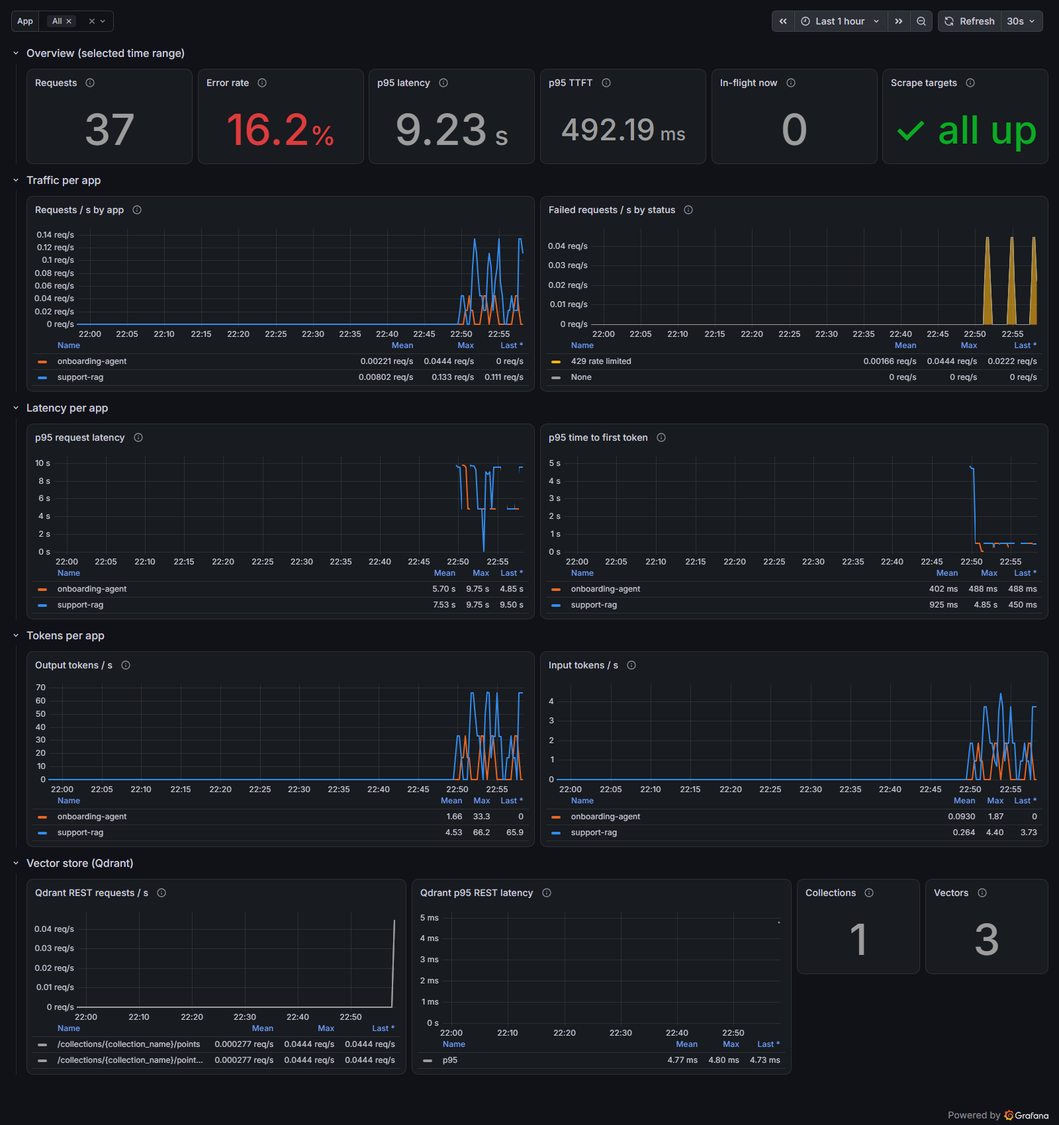
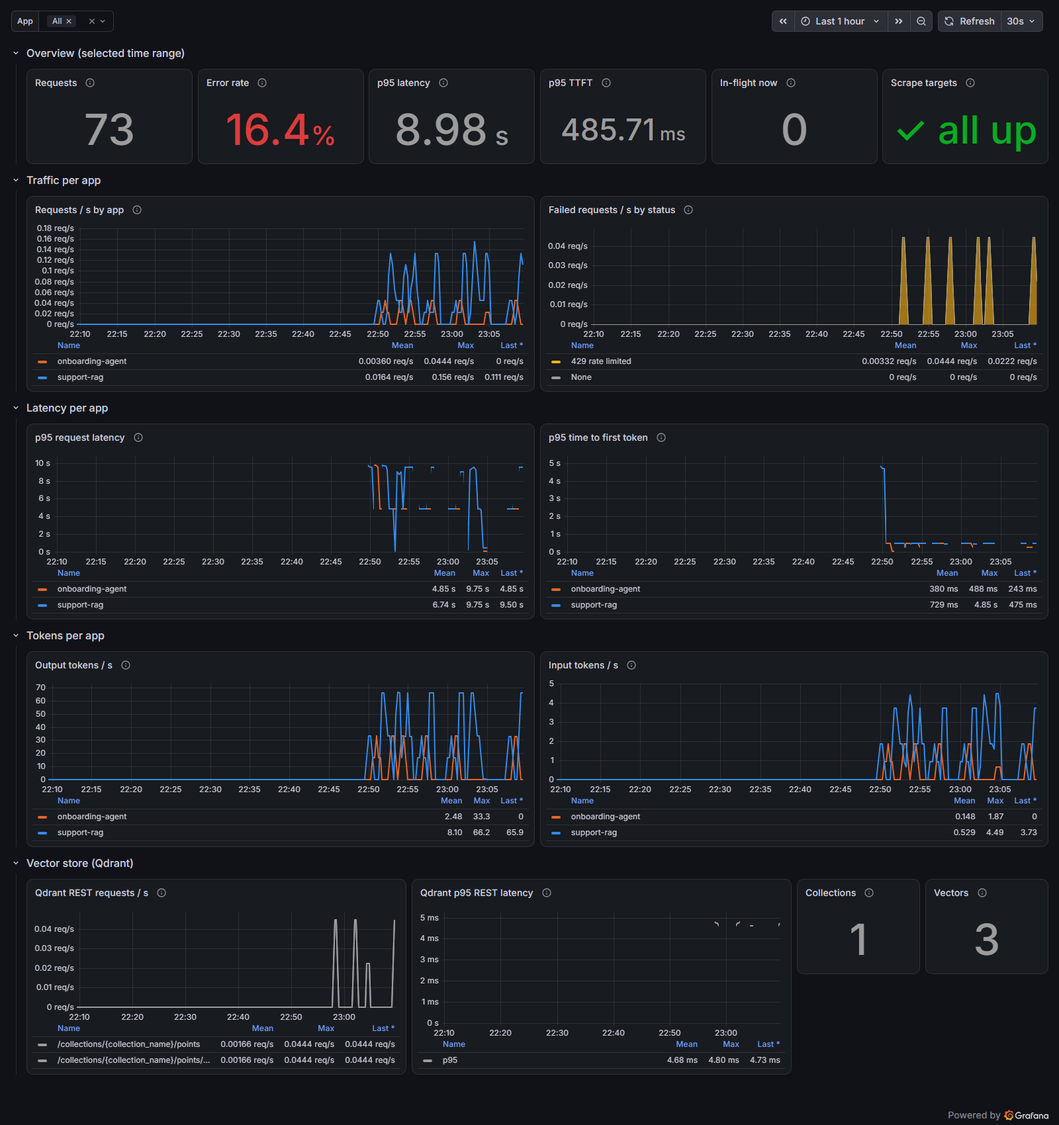
fix(1.9): address Codex round 1 - stricter no-data/geometry/cleanup checks, safer redaction

diff --git a/scripts/overnight/run_codex.py b/scripts/overnight/run_codex.py
@@ -8,21 +8,28 @@ from the repo root and writes:
   reports/raw/<item>/codex-last.md     Codex's final message
   reports/raw/<item>/codex.log         full stdout + stderr (progress, commands run)
 
-Stops Codex after 15 minutes. Before anything is written, every secret value
-from .env is redacted, so a reply that quotes a key never lands on disk.
+Stops Codex after 15 minutes. Nothing Codex produces is written into the repo
+unredacted: its final message goes to a temp file outside the repo first, and
+every value of a .env variable (quotes and inline comments stripped) plus any
+`sk-...` token is redacted before the repo copy is written. The temp file is
+removed in all cases, including timeout.
 """
 from __future__ import annotations
 
 import os
+import re
 import shutil
 import subprocess
 import sys
+import tempfile
 import time
 from pathlib import Path
 
 REPO = Path(__file__).resolve().parents[2]
 TIMEOUT_S = 15 * 60
-SECRET_VARS = ("PASSWORD", "KEY", "SALT", "SECRET", "TOKEN")
+SK_TOKEN = re.compile(r"sk-[A-Za-z0-9_\-]{8,}")
+# Values too generic to redact without mangling prose (ports, model names, ...).
+NOT_SECRET_VARS = re.compile(r"(_PORT|_USER|_DB|_MODEL|_RETENTION|NUM_PARALLEL|MAX_LOADED_MODELS|KEEP_ALIVE)$")
 
 
 def codex_exe() -> str:
@@ -35,14 +42,27 @@ def codex_exe() -> str:
     raise SystemExit("codex CLI not found")
 
 
+def parse_env_value(raw: str) -> str:
+    v = raw.strip()
+    if v[:1] in "\"'" and v[-1:] == v[:1] and len(v) >= 2:
+        return v[1:-1]
+    return re.split(r"\s+#", v, maxsplit=1)[0].strip()
+
+
 def secret_values() -> list[str]:
-    vals = []
+    """Every non-trivial .env value except clearly public settings; longest first
+    so a value containing another is replaced whole."""
+    vals = set()
     for line in (REPO / ".env").read_text(encoding="utf-8").splitlines():
-        if "=" in line and not line.lstrip().startswith("#"):
-            k, v = line.split("=", 1)
-            if any(s in k.upper() for s in SECRET_VARS) and len(v.strip()) >= 6:
-                vals.append(v.strip())
-    return vals
+        line = line.strip()
+        if not line or line.startswith("#") or "=" not in line:
+            continue
+        k, v = line.split("=", 1)
+        k = k.strip().removeprefix("export ").strip()
+        v = parse_env_value(v)
+        if v and len(v) >= 4 and not NOT_SECRET_VARS.search(k):
+            vals.add(v)
+    return sorted(vals, key=len, reverse=True)
 
 
 def redact(text: str, secrets: list[str]) -> tuple[str, int]:
@@ -51,7 +71,8 @@ def redact(text: str, secrets: list[str]) -> tuple[str, int]:
         if s in text:
             hits += text.count(s)
             text = text.replace(s, "[REDACTED]")
-    return text, hits
+    text, n = SK_TOKEN.subn(lambda m: f"sk-…{m.group()[-4:]}", text)
+    return text, hits + n
 
 
 def main() -> int:
@@ -64,21 +85,28 @@ def main() -> int:
     if last.exists():
         last.unlink()
 
+    fd, tmp_name = tempfile.mkstemp(prefix="codex-last-", suffix=".md")
+    os.close(fd)
+    tmp_last = Path(tmp_name)
     cmd = [codex_exe(), "exec", "--sandbox", "read-only",
            "-c", 'model_reasoning_effort="medium"',
-           "--output-last-message", str(last), prompt]
+           "--output-last-message", str(tmp_last), prompt]
     started = time.monotonic()
     status = "ok"
     try:
-        proc = subprocess.run(cmd, cwd=REPO, stdin=subprocess.DEVNULL, capture_output=True,
-                              text=True, encoding="utf-8", errors="replace", timeout=TIMEOUT_S,
-                              env={**os.environ, "NO_COLOR": "1"})
-        out, rc = proc.stdout + "\n--- stderr ---\n" + proc.stderr, proc.returncode
-    except subprocess.TimeoutExpired as e:
-        status = "timeout"
-        out = f"{e.stdout or ''}\n--- stderr ---\n{e.stderr or ''}"
-        out = out if isinstance(out, str) else out.decode("utf-8", "replace")
-        rc = -1
+        try:
+            proc = subprocess.run(cmd, cwd=REPO, stdin=subprocess.DEVNULL, capture_output=True,
+                                  text=True, encoding="utf-8", errors="replace", timeout=TIMEOUT_S,
+                                  env={**os.environ, "NO_COLOR": "1"})
+            out, rc = proc.stdout + "\n--- stderr ---\n" + proc.stderr, proc.returncode
+        except subprocess.TimeoutExpired as e:
+            status = "timeout"
+            parts = [p if isinstance(p, str) else (p or b"").decode("utf-8", "replace")
+                     for p in (e.stdout, e.stderr)]
+            out, rc = f"{parts[0]}\n--- stderr ---\n{parts[1]}", -1
+        reply = tmp_last.read_text(encoding="utf-8") if tmp_last.stat().st_size else ""
+    finally:
+        tmp_last.unlink(missing_ok=True)
     elapsed = time.monotonic() - started
 
     secrets = secret_values()
@@ -86,12 +114,12 @@ def main() -> int:
     (raw / "codex.log").write_text(
         f"# codex exec ({status}, exit {rc}, {elapsed:.0f}s)\n\n{log}", encoding="utf-8", newline="\n")
     hits_last = 0
-    if last.exists():
-        text, hits_last = redact(last.read_text(encoding="utf-8"), secrets)
-        last.write_text(text, encoding="utf-8", newline="\n")
-    print(f"codex {status}, exit {rc}, {elapsed:.0f}s; reply: {last.exists()}; "
-          f"redacted {hits_log + hits_last} secret occurrence(s)")
-    return 0 if status == "ok" and rc == 0 and last.exists() else 1
+    if reply:
+        reply, hits_last = redact(reply, secrets)
+        last.write_text(reply, encoding="utf-8", newline="\n")
+    print(f"codex {status}, exit {rc}, {elapsed:.0f}s; reply: {bool(reply)}; "
+          f"redacted {hits_log + hits_last} occurrence(s)")
+    return 0 if status == "ok" and rc == 0 and reply else 1
 
 
 if __name__ == "__main__":

diff --git a/tests/e2e/test_grafana.py b/tests/e2e/test_grafana.py
@@ -38,7 +38,7 @@ STAT_TITLES = [p["title"] for p in PANELS if p["type"] == "stat"]
 TS_TITLES = [p["title"] for p in PANELS if p["type"] == "timeseries"]
 OUT_DIR = REPO / "reports/raw/1.9"
 VIEWPORT = {"width": 1600, "height": 1700}       # whole dashboard fits without scrolling
-EMPTY_TEXT = re.compile(r"^\s*No data( in range)?\s*$")
+EMPTY_TEXT = re.compile(r"\bno\s+data\b", re.I)   # "No data", "No data in range", ...
 EMPTY_STAT = {"–", "-", "N/A", "NaN", ""}
 
 pytestmark = [pytest.mark.llm, pytest.mark.browser]
@@ -85,7 +85,9 @@ def app_traffic(env, gateway, grafana, probe_image):
                        "body": {"vectors": {"size": 4, "distance": "Cosine"}}}])[0]["status"] == 200
         twice_across_scrape(grafana, qdrant_points, "sum(rest_responses_total)")
     finally:
-        probe([{"method": "DELETE", "url": col, "headers": h}])
+        deleted = probe([{"method": "DELETE", "url": col, "headers": h}])[0]
+        assert deleted["status"] == 200 and deleted["body"].get("result") is True, \
+            f"temporary Qdrant collection not cleaned up: HTTP {deleted['status']}"
 
 
 @pytest.fixture(scope="module")
@@ -168,7 +170,7 @@ def test_panels_do_not_overlap_and_fit_viewport(dashboard_page):
     for title, b in boxes:
         assert b and b["width"] > 0 and b["height"] > 0, title
         assert b["x"] >= 0 and b["x"] + b["width"] <= VIEWPORT["width"] + 1, f"{title} overflows horizontally"
-        assert b["y"] + b["height"] <= VIEWPORT["height"] + 1, f"{title} below the screenshot"
+        assert b["y"] >= 0 and b["y"] + b["height"] <= VIEWPORT["height"] + 1, f"{title} outside the screenshot"
     for i, (ta, a) in enumerate(boxes):
         for tb, b in boxes[i + 1:]:
             ix = min(a["x"] + a["width"], b["x"] + b["width"]) - max(a["x"], b["x"])

diff --git a/reports/verification/1.9.md b/reports/verification/1.9.md
@@ -110,16 +110,18 @@
 
 ### 親自看截圖的觀察（`platform-overview-kiosk.png`）
 
+> 每次跑完整套件，e2e 測試都會重新產生截圖。以下數值對應 commit 進 repo 的版本，也就是修正第 1 輪後的完整套件執行（`reports/raw/1.9/pytest.txt`）。
+
 - **排版**：
   - 5 個 row（Overview、Traffic、Latency、Tokens、Vector store）依序排列，16 個面板對齊格線，無重疊、無截斷。
   - 唯一例外是 Qdrant REST requests 圖例中較長的端點名稱，會以 `…` 省略。
 - **配色**：
   - 各應用在所有面板中顏色固定：support-rag 藍 `#338ced`、onboarding-agent 橘 `#e76624`。
   - Failed 面板中的 429 使用 warning 黃，`None` 使用中性灰，沒有和應用顏色混用。
-  - Error rate 16.2% 以 critical 紅顯示，這來自測試刻意製造的 429。
+  - Error rate 16.4% 以 critical 紅顯示，這來自測試刻意製造的 429。
   - Scrape targets 顯示綠色勾號加「all up」，有圖示也有文字，不是只靠顏色表達狀態。
 - **數值合理性**：
-  - Requests 37、p95 TTFT 492 ms、In-flight 0（閒置）。
+  - Requests 73、Error rate 16.4%、p95 latency 8.98 s、p95 TTFT 485.71 ms、In-flight 0（閒置）。
   - Collections 1、Vectors 3：截圖時臨時 collection 已刪除，但 Prometheus 最後一次抓取時它還在，最多落後 15 秒。
 - **Failed 面板的 `None` 序列來源已查明**：
   - 來自 1.9 調查並發計數 bug 時，我刻意送出的格式錯誤請求（`messages` 是字串）。
@@ -128,8 +130,64 @@
   - 這些都不是應用流量。
   - **這是一項觀察：**格式錯誤的 400 在面板上會顯示為 `None`，不是 `400`。
 - **其他觀察**：
+  - 流量是一陣一陣的，所以 p95 latency 與 TTFT 曲線在兩次請求之間有斷點：該時段沒有請求，`histogram_quantile` 算出 NaN。這是預期行為。
+  - Qdrant p95 REST latency 只有零星幾個點，因為測試只做了少量 Qdrant 呼叫。點很小，不容易看到，但面板確實有資料，圖例也有數值。若要讓圖更清楚，可以考慮開啟 `showPoints`；這件事留給使用者決定，本次沒有改動儀表板。
   - In-flight now 只是最後一次抓取時的瞬間值。第一次截圖時剛好有 2 個串流仍在進行，所以顯示 2；第二次截圖時是 0。這是預期行為，不是 bug。
 
 ### 結果
 
 `pytest tests/e2e`：22 passed in 142.94s。完整套件的結果見 `reports/raw/1.9/pytest.txt`。
+
+
+---
+
+## 附錄 B：Codex 審閱 第 1 輪
+
+> 夜間模式：Codex 唯讀審閱證據，未親自執行。
+
+- **commit 範圍**：`e25cac1..30cee1f`
+- **指令**：`codex exec --sandbox read-only -c model_reasoning_effort="medium"`
+- **原始檔案**：
+  - prompt：`reports/raw/1.9/codex-prompt.md`
+  - 完整 log：`reports/raw/1.9/codex.log`
+- 第 1 輪結束後，以第 2 輪的 Codex 審閱覆寫了 raw 目錄中的檔案。第 1 輪的完整回覆保留在下方。
+
+### Codex 回覆（全文）
+
+## 總結：有條件通過
+
+程式與 `pytest.txt` 支持大部分驗收項目，截圖也看得到各面板有資料、版面未見重疊，應用線條使用藍、橘固定色。不過，附錄 A 的數值與目前工作樹中的 PNG 不一致；Qdrant 清理結果也未驗證。另有密鑰遮蔽風險，建議修正後再視為完整通過。
+
+## 逐條驗收結果
+
+1. **登入與帳密保護：有條件通過。** 測試從 `.env` 取得帳密，透過登入表單提交；登入例外會以固定訊息取代 Playwright 錯誤細節，避免帳密出現在該錯誤中。[test_grafana.py:97](/D:/onprem-agent-lab/tests/e2e/test_grafana.py:97) 不過，`run_codex.py` 的遮蔽不完整，詳見下方。
+2. **Kiosk 與截圖：通過。** 導向 kiosk URL，截圖寫至 `reports/raw/1.9/`。[test_grafana.py:108](/D:/onprem-agent-lab/tests/e2e/test_grafana.py:108)
+3. **No data 檢查：部分通過。** 測試涵蓋「–」類 stat 空值與 `No data in range` 圖例文字，但全頁文字比對是精確匹配，可能漏掉其他同義或包有額外文字的空資料狀態。[test_grafana.py:41](/D:/onprem-agent-lab/tests/e2e/test_grafana.py:41)、[test_grafana.py:137](/D:/onprem-agent-lab/tests/e2e/test_grafana.py:137)
+4. **自行產生流量與清理：有條件通過。** 流量由測試產生，且用 `finally` 刪除臨時 Qdrant collection；但未檢查 DELETE 回應，無法確認資源確實清除。[test_grafana.py:49](/D:/onprem-agent-lab/tests/e2e/test_grafana.py:49)、[test_grafana.py:83](/D:/onprem-agent-lab/tests/e2e/test_grafana.py:83)
+5. **完整套件與 xfail：通過。** `pytest.txt` 記錄 143 passed、1 xfailed、exit code 0；該 xfail 為 strict，並附 LiteLLM 問題理由。
+6. **截圖與附錄觀察：部分通過。** 我直接檢視了目前工作樹 PNG：面板有數值與圖例、未見重疊或截斷；應用曲線為藍、橘，429 為黃色，錯誤率為紅色。截圖仍有 Grafana 時間／刷新控制列。更重要的是，截圖顯示 Requests 47、Error rate 17.0%、p95 TTFT 488.75 ms，和附錄記載的 37、16.2%、492 ms 不一致；因此附錄數值觀察不能由這份 PNG 證實。
+7. **1.9.md 僅追加附錄：通過。** Git 差異顯示既有內容未改，新增內容只在文件末尾附錄 A。
+
+## 弱斷言與問題清單
+
+- **必修｜密鑰遮蔽可能漏值** — [run_codex.py:38](/D:/onprem-agent-lab/scripts/overnight/run_codex.py:38)、[run_codex.py:67](/D:/onprem-agent-lab/scripts/overnight/run_codex.py:67)、[run_codex.py:84](/D:/onprem-agent-lab/scripts/overnight/run_codex.py:84)：只從 `.env` 擷取符合變數名稱且長度至少 6 的未解析原始值；引號、行尾註解或短值可能未被遮蔽。此外，Codex 直接以 `--output-last-message` 寫檔，遮蔽是在程序結束後才做，逾時或中斷可能留下未遮蔽內容。建議以正確解析後的所有秘密值遮蔽，並讓輸出先寫至記憶體／暫存，再遮蔽後落盤。
+- **建議｜刪除失敗不會讓測試失敗** — [test_grafana.py:87](/D:/onprem-agent-lab/tests/e2e/test_grafana.py:87)：`finally` 有發送 DELETE，但不檢查回應狀態。建議驗證成功狀態，並在失敗時明確報告清理未完成。
+- **建議｜截圖數值與附錄不符** — [1.9.md:119](/D:/onprem-agent-lab/reports/verification/1.9.md:119)：附錄觀察值與目前工作樹 PNG 不一致。請確認 PNG 是否在提交後被替換（工作樹顯示該檔已修改），並讓報告與欲驗證的截圖版本一致。
+- **建議｜測試時序依賴抓取及並發狀態** — [test_dashboards.py:196](/D:/onprem-agent-lab/tests/platform/test_dashboards.py:196)、[test_dashboards.py:205](/D:/onprem-agent-lab/tests/platform/test_dashboards.py:205)：測試依賴 Prometheus 抓取觀察 counter 增長，且以持有並發槽位製造 429；抓取延遲、請求耗時或其他並發流量都可能影響結果。現有等待與重試有所緩解，但仍有環境時序敏感性。
+- **建議｜幾何檢查未檢查頂端越界** — [test_grafana.py:166](/D:/onprem-agent-lab/tests/e2e/test_grafana.py:166)：檢查了左右與底部，但未要求 `y >= 0`。建議補上頂部邊界斷言。
+- **弱斷言檢查結果：未發現所述空集合通過。** 面板計數及每個 JSON 面板標題都要求唯一匹配；stat 與時間序列斷言會對缺失元素觸發錯誤，不會因為空集合而成功。[test_grafana.py:131](/D:/onprem-agent-lab/tests/e2e/test_grafana.py:131)、[test_grafana.py:145](/D:/onprem-agent-lab/tests/e2e/test_grafana.py:145)
+
+我沒有親自執行測試；以上結論來自閱讀程式碼、Git 歷史與測試輸出，並直接檢視目前工作樹中的 PNG。
+
+### 依第 1 輪意見所做的修正
+
+| Codex 意見 | 處理 |
+|---|---|
+| 必修：密鑰遮蔽可能漏值、`--output-last-message` 先寫進 repo | `run_codex.py`：<br>• 解析 `.env` 時去除引號與行尾註解，遮蔽所有非公開設定的值（自我測試：8 個值全部被遮蔽）<br>• 另外把任何 `sk-…` token 改成專案遮罩格式<br>• Codex 的最後回覆先寫到 repo 外的暫存檔，遮蔽後才寫入 repo；逾時時暫存檔也會刪除 |
+| 截圖數值與附錄不符 | 原因：完整套件執行時 e2e 測試重新產生了截圖。附錄 A 改為描述 commit 進 repo 的那一版，並註明每次執行都會覆寫 |
+| DELETE 回應沒有檢查 | `finally` 中斷言 Qdrant 回傳 200 且 `result: true` |
+| 幾何檢查沒有檢查頂端 | 加上 `y >= 0` |
+| No data 文字採完全比對 | 改為 `no\s+data`，不分大小寫的部分比對 |
+| 時序依賴 | 未改動。`twice_across_scrape` 已經會等待 counter 實際增加（最多 45 秒）；429 由持有固定數量的串流觸發，與 `test_dashboards.py` 的作法相同。記錄為已知的環境敏感性 |
+
+修正後重跑完整套件：143 passed, 1 xfailed（`reports/raw/1.9/pytest.txt`）。

diff --git a/reports/raw/1.9/codex-last.md b/reports/raw/1.9/codex-last.md
@@ -1,0 +1,24 @@
+## 總結：有條件通過
+
+程式與 `pytest.txt` 支持大部分驗收項目，截圖也看得到各面板有資料、版面未見重疊，應用線條使用藍、橘固定色。不過，附錄 A 的數值與目前工作樹中的 PNG 不一致；Qdrant 清理結果也未驗證。另有密鑰遮蔽風險，建議修正後再視為完整通過。
+
+## 逐條驗收結果
+
+1. **登入與帳密保護：有條件通過。** 測試從 `.env` 取得帳密，透過登入表單提交；登入例外會以固定訊息取代 Playwright 錯誤細節，避免帳密出現在該錯誤中。[test_grafana.py:97](/D:/onprem-agent-lab/tests/e2e/test_grafana.py:97) 不過，`run_codex.py` 的遮蔽不完整，詳見下方。
+2. **Kiosk 與截圖：通過。** 導向 kiosk URL，截圖寫至 `reports/raw/1.9/`。[test_grafana.py:108](/D:/onprem-agent-lab/tests/e2e/test_grafana.py:108)
+3. **No data 檢查：部分通過。** 測試涵蓋「–」類 stat 空值與 `No data in range` 圖例文字，但全頁文字比對是精確匹配，可能漏掉其他同義或包有額外文字的空資料狀態。[test_grafana.py:41](/D:/onprem-agent-lab/tests/e2e/test_grafana.py:41)、[test_grafana.py:137](/D:/onprem-agent-lab/tests/e2e/test_grafana.py:137)
+4. **自行產生流量與清理：有條件通過。** 流量由測試產生，且用 `finally` 刪除臨時 Qdrant collection；但未檢查 DELETE 回應，無法確認資源確實清除。[test_grafana.py:49](/D:/onprem-agent-lab/tests/e2e/test_grafana.py:49)、[test_grafana.py:83](/D:/onprem-agent-lab/tests/e2e/test_grafana.py:83)
+5. **完整套件與 xfail：通過。** `pytest.txt` 記錄 143 passed、1 xfailed、exit code 0；該 xfail 為 strict，並附 LiteLLM 問題理由。
+6. **截圖與附錄觀察：部分通過。** 我直接檢視了目前工作樹 PNG：面板有數值與圖例、未見重疊或截斷；應用曲線為藍、橘，429 為黃色，錯誤率為紅色。截圖仍有 Grafana 時間／刷新控制列。更重要的是，截圖顯示 Requests 47、Error rate 17.0%、p95 TTFT 488.75 ms，和附錄記載的 37、16.2%、492 ms 不一致；因此附錄數值觀察不能由這份 PNG 證實。
+7. **1.9.md 僅追加附錄：通過。** Git 差異顯示既有內容未改，新增內容只在文件末尾附錄 A。
+
+## 弱斷言與問題清單
+
+- **必修｜密鑰遮蔽可能漏值** — [run_codex.py:38](/D:/onprem-agent-lab/scripts/overnight/run_codex.py:38)、[run_codex.py:67](/D:/onprem-agent-lab/scripts/overnight/run_codex.py:67)、[run_codex.py:84](/D:/onprem-agent-lab/scripts/overnight/run_codex.py:84)：只從 `.env` 擷取符合變數名稱且長度至少 6 的未解析原始值；引號、行尾註解或短值可能未被遮蔽。此外，Codex 直接以 `--output-last-message` 寫檔，遮蔽是在程序結束後才做，逾時或中斷可能留下未遮蔽內容。建議以正確解析後的所有秘密值遮蔽，並讓輸出先寫至記憶體／暫存，再遮蔽後落盤。
+- **建議｜刪除失敗不會讓測試失敗** — [test_grafana.py:87](/D:/onprem-agent-lab/tests/e2e/test_grafana.py:87)：`finally` 有發送 DELETE，但不檢查回應狀態。建議驗證成功狀態，並在失敗時明確報告清理未完成。
+- **建議｜截圖數值與附錄不符** — [1.9.md:119](/D:/onprem-agent-lab/reports/verification/1.9.md:119)：附錄觀察值與目前工作樹 PNG 不一致。請確認 PNG 是否在提交後被替換（工作樹顯示該檔已修改），並讓報告與欲驗證的截圖版本一致。
+- **建議｜測試時序依賴抓取及並發狀態** — [test_dashboards.py:196](/D:/onprem-agent-lab/tests/platform/test_dashboards.py:196)、[test_dashboards.py:205](/D:/onprem-agent-lab/tests/platform/test_dashboards.py:205)：測試依賴 Prometheus 抓取觀察 counter 增長，且以持有並發槽位製造 429；抓取延遲、請求耗時或其他並發流量都可能影響結果。現有等待與重試有所緩解，但仍有環境時序敏感性。
+- **建議｜幾何檢查未檢查頂端越界** — [test_grafana.py:166](/D:/onprem-agent-lab/tests/e2e/test_grafana.py:166)：檢查了左右與底部，但未要求 `y >= 0`。建議補上頂部邊界斷言。
+- **弱斷言檢查結果：未發現所述空集合通過。** 面板計數及每個 JSON 面板標題都要求唯一匹配；stat 與時間序列斷言會對缺失元素觸發錯誤，不會因為空集合而成功。[test_grafana.py:131](/D:/onprem-agent-lab/tests/e2e/test_grafana.py:131)、[test_grafana.py:145](/D:/onprem-agent-lab/tests/e2e/test_grafana.py:145)
+
+我沒有親自執行測試；以上結論來自閱讀程式碼、Git 歷史與測試輸出，並直接檢視目前工作樹中的 PNG。

diff --git a/reports/raw/1.9/codex-round1-last.md b/reports/raw/1.9/codex-round1-last.md
@@ -1,0 +1,24 @@
+## 總結：有條件通過
+
+程式與 `pytest.txt` 支持大部分驗收項目，截圖也看得到各面板有資料、版面未見重疊，應用線條使用藍、橘固定色。不過，附錄 A 的數值與目前工作樹中的 PNG 不一致；Qdrant 清理結果也未驗證。另有密鑰遮蔽風險，建議修正後再視為完整通過。
+
+## 逐條驗收結果
+
+1. **登入與帳密保護：有條件通過。** 測試從 `.env` 取得帳密，透過登入表單提交；登入例外會以固定訊息取代 Playwright 錯誤細節，避免帳密出現在該錯誤中。[test_grafana.py:97](/D:/onprem-agent-lab/tests/e2e/test_grafana.py:97) 不過，`run_codex.py` 的遮蔽不完整，詳見下方。
+2. **Kiosk 與截圖：通過。** 導向 kiosk URL，截圖寫至 `reports/raw/1.9/`。[test_grafana.py:108](/D:/onprem-agent-lab/tests/e2e/test_grafana.py:108)
+3. **No data 檢查：部分通過。** 測試涵蓋「–」類 stat 空值與 `No data in range` 圖例文字，但全頁文字比對是精確匹配，可能漏掉其他同義或包有額外文字的空資料狀態。[test_grafana.py:41](/D:/onprem-agent-lab/tests/e2e/test_grafana.py:41)、[test_grafana.py:137](/D:/onprem-agent-lab/tests/e2e/test_grafana.py:137)
+4. **自行產生流量與清理：有條件通過。** 流量由測試產生，且用 `finally` 刪除臨時 Qdrant collection；但未檢查 DELETE 回應，無法確認資源確實清除。[test_grafana.py:49](/D:/onprem-agent-lab/tests/e2e/test_grafana.py:49)、[test_grafana.py:83](/D:/onprem-agent-lab/tests/e2e/test_grafana.py:83)
+5. **完整套件與 xfail：通過。** `pytest.txt` 記錄 143 passed、1 xfailed、exit code 0；該 xfail 為 strict，並附 LiteLLM 問題理由。
+6. **截圖與附錄觀察：部分通過。** 我直接檢視了目前工作樹 PNG：面板有數值與圖例、未見重疊或截斷；應用曲線為藍、橘，429 為黃色，錯誤率為紅色。截圖仍有 Grafana 時間／刷新控制列。更重要的是，截圖顯示 Requests 47、Error rate 17.0%、p95 TTFT 488.75 ms，和附錄記載的 37、16.2%、492 ms 不一致；因此附錄數值觀察不能由這份 PNG 證實。
+7. **1.9.md 僅追加附錄：通過。** Git 差異顯示既有內容未改，新增內容只在文件末尾附錄 A。
+
+## 弱斷言與問題清單
+
+- **必修｜密鑰遮蔽可能漏值** — [run_codex.py:38](/D:/onprem-agent-lab/scripts/overnight/run_codex.py:38)、[run_codex.py:67](/D:/onprem-agent-lab/scripts/overnight/run_codex.py:67)、[run_codex.py:84](/D:/onprem-agent-lab/scripts/overnight/run_codex.py:84)：只從 `.env` 擷取符合變數名稱且長度至少 6 的未解析原始值；引號、行尾註解或短值可能未被遮蔽。此外，Codex 直接以 `--output-last-message` 寫檔，遮蔽是在程序結束後才做，逾時或中斷可能留下未遮蔽內容。建議以正確解析後的所有秘密值遮蔽，並讓輸出先寫至記憶體／暫存，再遮蔽後落盤。
+- **建議｜刪除失敗不會讓測試失敗** — [test_grafana.py:87](/D:/onprem-agent-lab/tests/e2e/test_grafana.py:87)：`finally` 有發送 DELETE，但不檢查回應狀態。建議驗證成功狀態，並在失敗時明確報告清理未完成。
+- **建議｜截圖數值與附錄不符** — [1.9.md:119](/D:/onprem-agent-lab/reports/verification/1.9.md:119)：附錄觀察值與目前工作樹 PNG 不一致。請確認 PNG 是否在提交後被替換（工作樹顯示該檔已修改），並讓報告與欲驗證的截圖版本一致。
+- **建議｜測試時序依賴抓取及並發狀態** — [test_dashboards.py:196](/D:/onprem-agent-lab/tests/platform/test_dashboards.py:196)、[test_dashboards.py:205](/D:/onprem-agent-lab/tests/platform/test_dashboards.py:205)：測試依賴 Prometheus 抓取觀察 counter 增長，且以持有並發槽位製造 429；抓取延遲、請求耗時或其他並發流量都可能影響結果。現有等待與重試有所緩解，但仍有環境時序敏感性。
+- **建議｜幾何檢查未檢查頂端越界** — [test_grafana.py:166](/D:/onprem-agent-lab/tests/e2e/test_grafana.py:166)：檢查了左右與底部，但未要求 `y >= 0`。建議補上頂部邊界斷言。
+- **弱斷言檢查結果：未發現所述空集合通過。** 面板計數及每個 JSON 面板標題都要求唯一匹配；stat 與時間序列斷言會對缺失元素觸發錯誤，不會因為空集合而成功。[test_grafana.py:131](/D:/onprem-agent-lab/tests/e2e/test_grafana.py:131)、[test_grafana.py:145](/D:/onprem-agent-lab/tests/e2e/test_grafana.py:145)
+
+我沒有親自執行測試；以上結論來自閱讀程式碼、Git 歷史與測試輸出，並直接檢視目前工作樹中的 PNG。

diff --git a/reports/raw/1.9/codex-prompt.md b/reports/raw/1.9/codex-prompt.md
@@ -1,0 +1,26 @@
+你是獨立驗證者，以唯讀方式審閱本 repo（D:\onprem-agent-lab，分支 overnight）中 1.9 的補驗證。不要修改任何檔案，不要執行會改變狀態的指令（不要跑 docker、pytest 或網路請求）；只閱讀檔案與 git 歷史。
+
+## 範圍
+- commit 範圍：`git diff e25cac1..30cee1f`（請用 `git log --oneline e25cac1..30cee1f` 與 `git diff e25cac1..30cee1f` 查看）
+- 主要檔案：tests/e2e/test_grafana.py、pyproject.toml（playwright 依賴與 browser marker）、reports/verification/1.9.md 的「附錄 A」、scripts/overnight/*.py
+- 證據：reports/raw/1.9/ 下的 pytest.txt（完整測試輸出）與 platform-overview-kiosk.png（儀表板截圖，請直接查看圖片）
+- 參考：tests/platform/test_dashboards.py、tests/platform/conftest.py、infra/grafana/dashboards/platform-overview.json
+
+## 驗收條件
+1. tests/e2e/test_grafana.py 從 .env 讀 Grafana 帳密並透過登入表單登入，任何情況下不印出帳密（包括失敗時的錯誤訊息）。
+2. 以 kiosk 模式開啟 platform-overview，截圖存到 reports/raw/1.9/。
+3. 檢查沒有任何面板顯示 No data（包含 stat 的「–」與圖例的「No data in range」等同義形式）。
+4. 測試自行產生需要的流量，不依賴先前測試的狀態；臨時資源（Qdrant collection）有清除。
+5. pytest.txt 顯示完整套件通過（xfail 須為 strict 且有理由）。
+6. 截圖本身：所有面板有資料、排版無重疊、應用配色固定（support-rag 藍、onboarding-agent 橘）、狀態色只用在錯誤/狀態。請親自看 png，比對附錄 A 的觀察是否屬實。
+7. 1.9.md 原有內容未被修改，只在後面追加附錄。
+
+## 請特別找出
+- 弱斷言：會在面板其實沒資料、排版錯誤或登入失敗時仍然通過的檢查；選擇器若找不到元素是否會「空集合通過」。
+- 測試之間的隱性依賴或不穩定因素（時間窗、Prometheus 抓取間隔、並發 429 的時序）。
+- scripts/overnight/run_codex.py 的密鑰遮蔽是否可靠。
+
+## 輸出要求
+- 用繁體中文，精簡。格式：總結（通過/有條件通過/不通過）→ 逐條驗收結果 → 弱斷言與問題清單（每項附檔案:行號與建議修法，標明嚴重度：必修/建議）。
+- 不得輸出任何密碼、API key 或 .env 的值；若需要提及，只寫變數名稱。
+- 註明你沒有親自執行測試，結論來自閱讀程式碼與證據。
